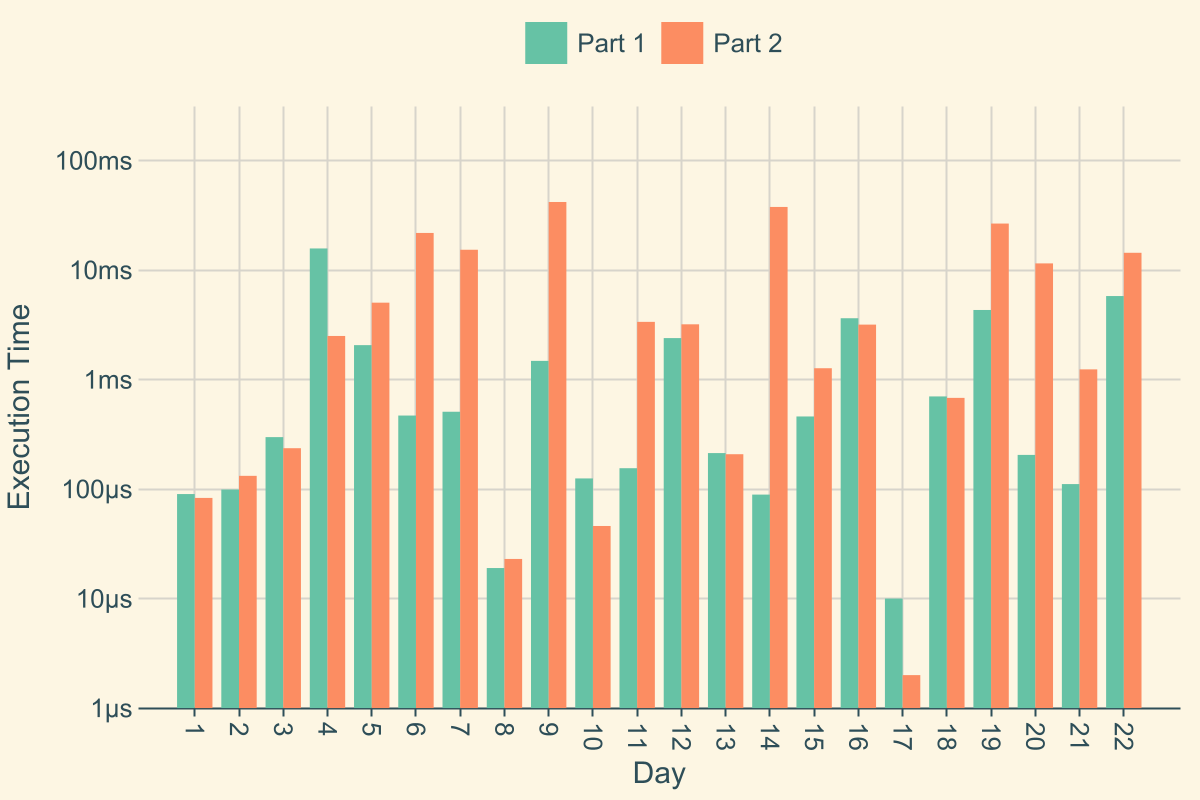
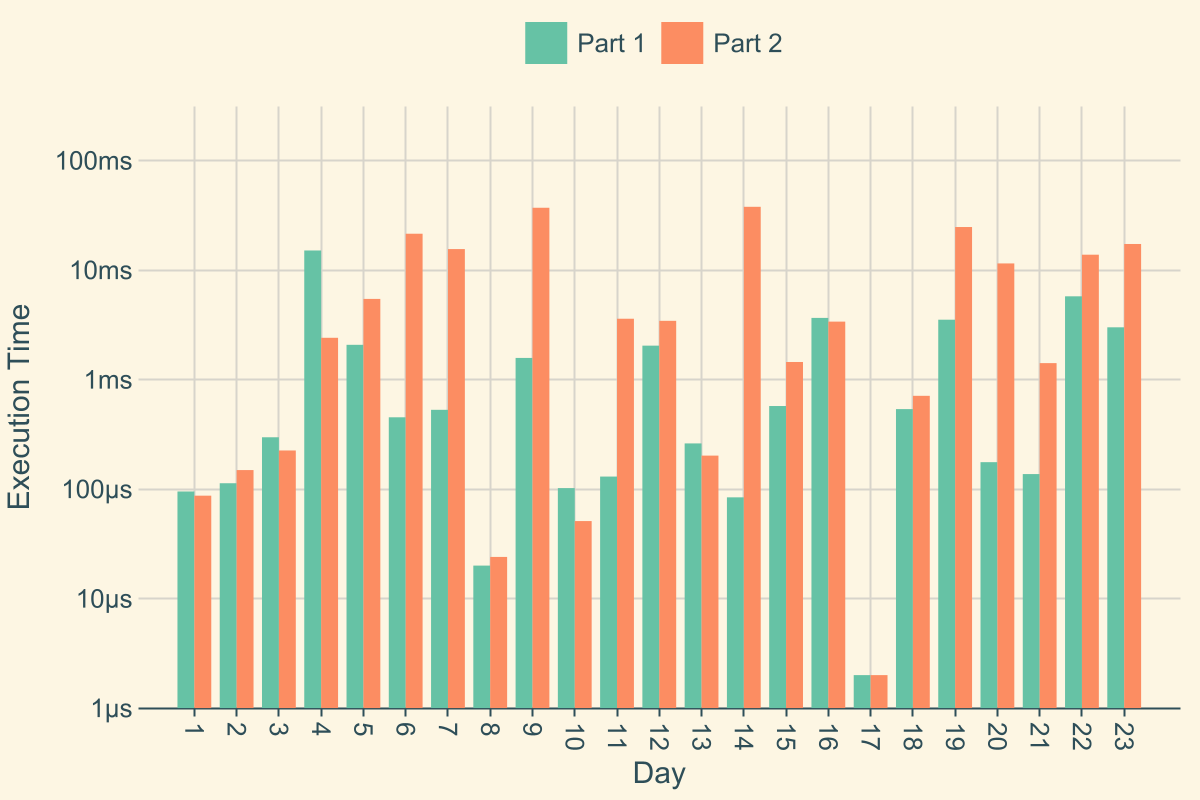
day23

Changed region(s): [[0.1542, 0.25, 0.9558, 0.9375]]

diff --git a/src/day23.rs b/src/day23.rs
@@ -1,0 +1,114 @@
+use crate::harness::Day;
+use crate::harness::Part;
+use std::collections::{HashMap, HashSet};
+
+pub fn day23() -> Day<u32, String> {
+    Day::new(23, Box::new(Part1 {}), Box::new(Part2 {}))
+}
+
+pub struct Part1;
+
+impl Part<u32> for Part1 {
+    fn expect_test(&self) -> u32 {
+        7
+    }
+
+    fn solve(&self, input: &[String]) -> u32 {
+        Input::from(input).clique_3().len() as u32
+    }
+}
+
+pub struct Part2;
+
+impl Part<String> for Part2 {
+    fn expect_test(&self) -> String {
+        "co,de,ka,ta".to_string()
+    }
+
+    fn solve(&self, input: &[String]) -> String {
+        Input::from(input)
+            .clique_max()
+            .into_iter()
+            .max_by_key(|vec| vec.len())
+            .unwrap()
+            .join(",")
+            .to_string()
+    }
+}
+
+struct Input<'a> {
+    computers: Vec<&'a str>,
+    connections: HashMap<&'a str, HashSet<&'a str>>,
+}
+
+impl<'a> From<&'a [String]> for Input<'a> {
+    fn from(value: &'a [String]) -> Self {
+        let mut computers = HashSet::new();
+        let connections = value
+            .iter()
+            .filter(|e| !e.is_empty())
+            .map(|s| s.split("-"))
+            .fold(HashMap::<_, HashSet<_>>::new(), |mut acc, mut e| {
+                let a = e.next().unwrap();
+                let b = e.next().unwrap();
+
+                computers.insert(a);
+                computers.insert(b);
+
+                acc.entry(a).or_default().insert(b);
+                acc.entry(b).or_default().insert(a);
+
+                acc
+            });
+
+        let mut computers = computers.into_iter().collect::<Vec<_>>();
+        computers.sort();
+
+        Self {
+            computers,
+            connections,
+        }
+    }
+}
+
+impl<'a> Input<'a> {
+    fn clique_max(&'a self) -> HashSet<Vec<&'a str>> {
+        let mut result = HashSet::new();
+
+        for mut clique in self.clique_3() {
+            for &candidate in &self.computers {
+                if clique
+                    .iter()
+                    .all(|&computer| self.connections[computer].contains(candidate))
+                {
+                    clique.push(candidate);
+                }
+            }
+
+            clique.sort();
+            result.insert(clique);
+        }
+
+        result
+    }
+
+    fn clique_3(&'a self) -> HashSet<Vec<&'a str>> {
+        let mut result = HashSet::new();
+
+        for (&computer_1, connections_1) in &self.connections {
+            for &computer_2 in connections_1 {
+                let connections_2 = self.connections.get(computer_2).unwrap();
+
+                for &computer_3 in connections_1.intersection(connections_2) {
+                    let mut clique = vec![computer_1, computer_2, computer_3];
+
+                    if clique.iter().any(|c| c.starts_with('t')) {
+                        clique.sort();
+                        result.insert(clique);
+                    }
+                }
+            }
+        }
+        result
+    }
+}

diff --git a/src/main.rs b/src/main.rs
@@ -31,7 +31,7 @@ use crate::day19::day19;
 use crate::day20::day20;
 use crate::day21::day21;
 use crate::day22::day22;
-// use crate::day23::day23;
+use crate::day23::day23;
 // use crate::day24::day24;
 // use crate::day25::day25;
 
@@ -57,7 +57,7 @@ mod day19;
 mod day20;
 mod day21;
 mod day22;
-// mod day23;
+mod day23;
 // mod day24;
 // mod day25;
 mod harness;
@@ -86,6 +86,7 @@ fn main() {
         day20().f(),
         day21().f(),
         day22().f(),
+        day23().f(),
     ];
 
     let run_one = |id: usize| (days[id - 1].f)();

diff --git a/src/day22.rs b/src/day22.rs
@@ -15,8 +15,7 @@ impl Part<u64> for Part1 {
 
     fn solve(&self, input: &[String]) -> u64 {
         parse(input)
-            .map(|u| Secret(u).take(2001).last().unwrap())
-            .map(|u| u as u64)
+            .map(|u| Secret(u).nth(2000).unwrap() as u64)
             .sum::<u64>()
     }
 }
